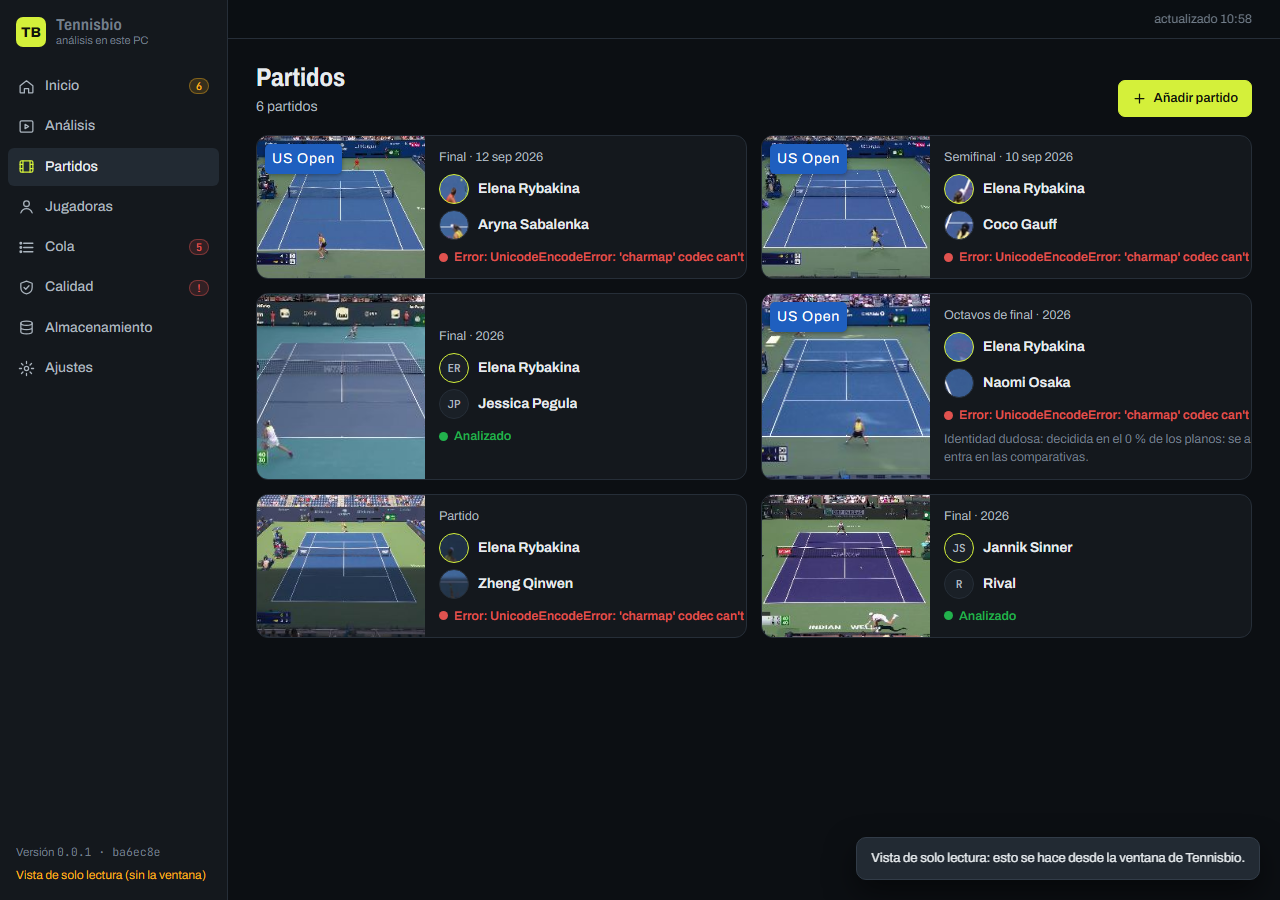
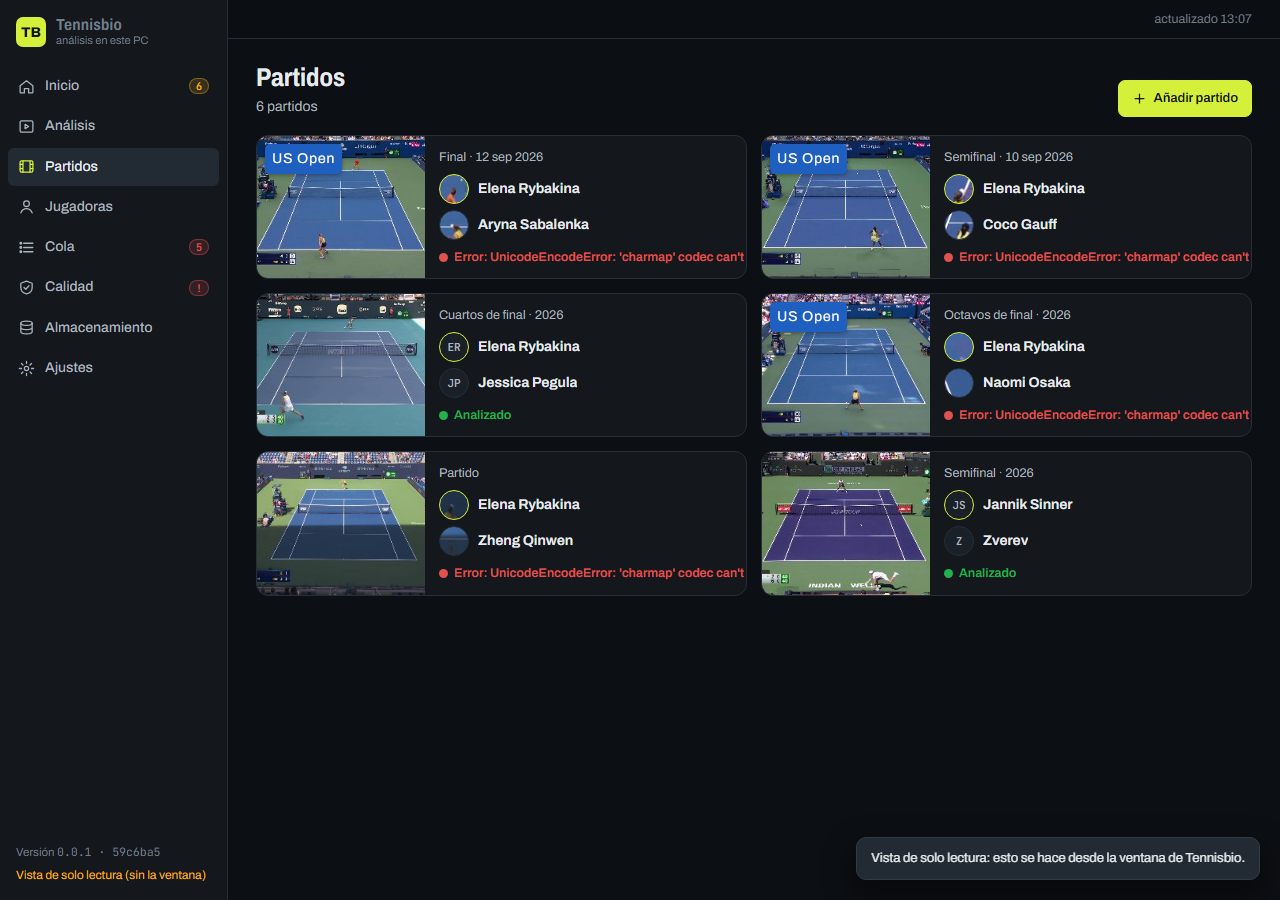
registros 2026-11-11T13:08:24

Changed region(s): [[0.1875, 0.3111, 0.9688, 0.7156], [0.0938, 0.9333, 0.125, 0.9644]]

diff --git a/capturas_app/ventana.md b/capturas_app/ventana.md
@@ -4,7 +4,7 @@
 
 - Índice: {'matches': 22, 'players': 3, 'analyses': 2, 'jobs_pending': 5, 'notices': 8}
 - Motor de la ventana: pywebview sí · WebView2 157.0.4341.42
-- Ventana real (oculta): {'opened': True, 'ready': True, 'bridge': '0.0.1 · ba6ec8e · 22 partidos', 'step': 'hecho', 'page_kb': 164, 'events': ['before_show 0.6 s', 'shown 0.6 s', 'before_load 1.1 s', 'loaded 1.1 s']}
+- Ventana real (oculta): {'opened': True, 'ready': True, 'bridge': '0.0.1 · 59c6ba5 · 22 partidos', 'step': 'hecho', 'page_kb': 168, 'events': ['before_show 0.7 s', 'shown 0.7 s', 'before_load 1.2 s', 'loaded 1.2 s']}
 - Icono junto al reloj: True · avisos de Windows: {'ok': True, 'why': '.Object</T></TN><MS><I64 N="SourceId">1</I64><PR N="Record"><AV>Preparing modules for first use.</AV><AI>0</AI><Nil /><PI>-1</PI><PC>-1</PC><T>Completed</T><SR>-1</SR><SD> </SD></PR></MS></Obj></Objs>'}
-- Copia a USB (lo que copiaría ahora): {'ficheros': 18237, 'bytes': 39409351146}
+- Copia a USB (lo que copiaría ahora): {'ficheros': 18237, 'bytes': 39409351247}
 
